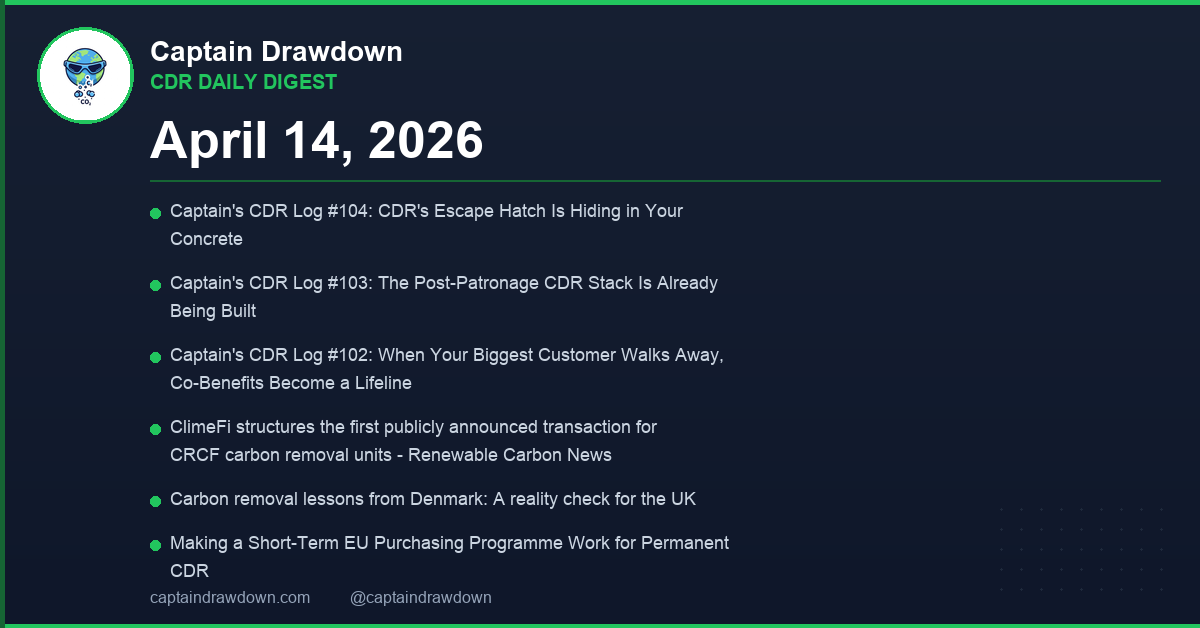
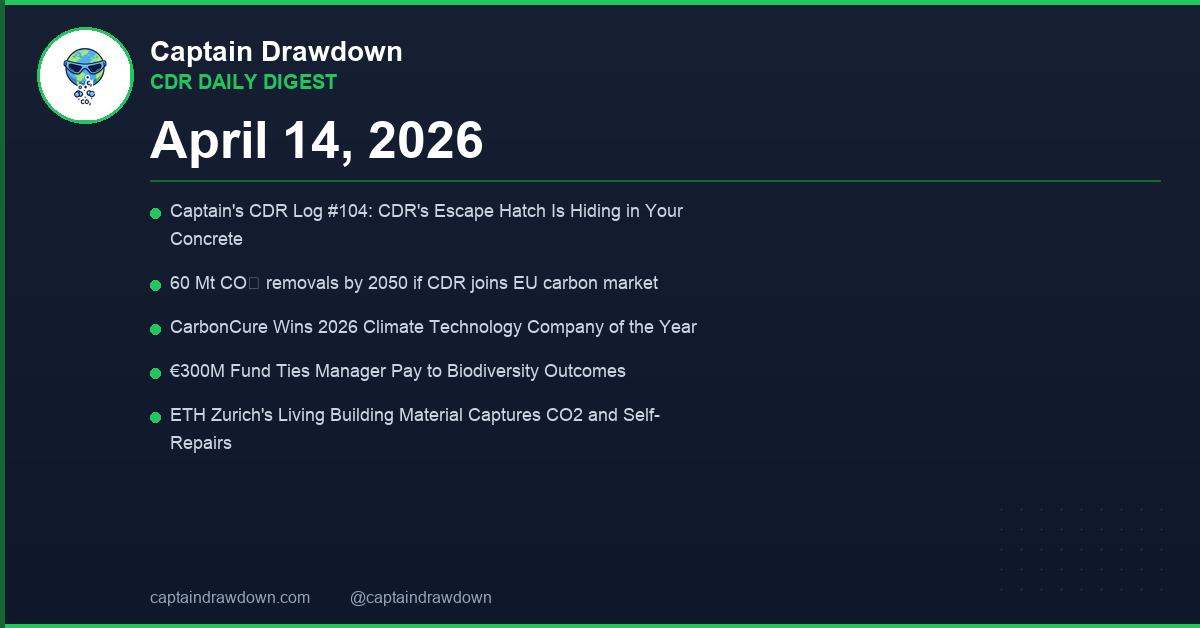
Daily digests Apr 14-16: rebuild with date-filtered story list (bug fix)

Changed region(s): [[0.1233, 0.4236, 0.6167, 0.7564], [0.1233, 0.8471, 0.6167, 0.9379], [0.1233, 0.7866, 0.5858, 0.8169]]

diff --git a/content/posts/2026-04-14-daily-digest-2026-04-14.md b/content/posts/2026-04-14-daily-digest-2026-04-14.md
@@ -1,6 +1,6 @@
 ---
 title: "CDR Daily Digest — 2026-04-14"
-date: 2026-04-14T20:31:47.990630+02:00
+date: 2026-04-14T20:30:00+02:00
 slug: "daily-digest-2026-04-14"
 tags: ["digest", "daily"]
 cover:
@@ -9,58 +9,42 @@ cover:
   hidden: false
 ---
 
-Concrete is quietly becoming CDR's most promising delivery vehicle. That is the pattern running through today's news, and it matters more than any single headline.
+Carbon dioxide removal is finding its way into the built environment faster than most people expected. Today's stories converge on a single theme: concrete and construction materials are becoming a serious vector for permanent carbon storage, and the policy and capital signals are finally catching up.
 
-## The day concrete got serious about carbon removal
+## Concrete Is Becoming a Carbon Sink
 
-Three separate stories landed today pointing in the same direction: carbon mineralization in concrete is moving from lab curiosity to industrial reality. ZEN Carbon announced its first live deployment at a concrete plant. CarbonCure won the 2026 Climate Technology Company of the Year award. And ETH Zurich published work on a living building material that captures CO2 and can self-repair.
+Three of today's five stories point to the same place: the stuff we build with.
 
-Why does this cluster matter? Because concrete is the world's most consumed manufactured material, roughly 30 billion tonnes produced each year. If even a fraction of that production mineralizes CO2 instead of just emitting it, the removal volumes could be enormous. And unlike some CDR pathways that struggle to find buyers, concrete already has buyers. Every building, bridge, and sidewalk is a potential sink.
+CarbonCure just won the 2026 Climate Technology Company of the Year award. The company injects captured CO₂ into fresh concrete, where it mineralizes permanently. That is not a lab demo. CarbonCure's technology is deployed across hundreds of concrete plants. The award signals that the broader climate-tech community now sees mineralization in building materials as a proven pathway, not a speculative one.
 
-ZEN Carbon's step is worth watching closely. Moving from pilot to a real industrial host site is where most hardware startups stall. The company framed it as a sector milestone, not just a company one, and they are right. Each successful deployment at an actual plant lowers the perceived risk for the next one.
+Meanwhile, ETH Zurich published work on a living building material that captures CO₂ and can self-repair. The material uses biological processes embedded in its structure to pull carbon from the air and store it in mineral form. It is early-stage research, but it points toward a future where buildings are not just low-carbon but actively carbon-negative over their lifetimes.
 
-## Co-benefits as survival strategy
+These developments sit alongside what we explored in Captain's CDR Log #104: the enormous, underappreciated opportunity to use concrete as a permanent carbon store. Concrete is the most consumed material on Earth after water. Even modest CO₂ uptake per cubic meter, multiplied across global production volumes, adds up to meaningful removal at scale.
 
-Our own Captain's Log series this week (#102, #103, #104) traced a theme that connects directly to the concrete story: when traditional CDR revenue is uncertain, co-benefits become the lifeline.
+## Policy Could Unlock 60 Million Tonnes a Year
 
-Log #102 examined what happens when a major buyer walks away. The answer, increasingly, is that CDR companies pivot toward products and services that have value independent of carbon credits. Mineralized concrete is the textbook case. It makes better concrete. The carbon removal is a bonus, not the sole revenue stream. Log #104 made this explicit: CDR's escape hatch is hiding in your concrete.
+Scale requires more than technology. It requires markets. A new analysis shows that if CDR is formally integrated into the EU carbon market, removals could reach 60 million tonnes of CO₂ per year by 2050. That is a significant number. For context, the entire global volume of CDR purchased through voluntary markets today is a tiny fraction of that figure.
 
-Log #103 went further, arguing that a "post-patronage CDR stack" is already being assembled. The era of relying on a handful of large voluntary buyers to fund the entire sector may be ending. What replaces it is a mix of compliance markets, product co-benefits, and structured finance.
+The mechanism matters here. Inclusion in the EU Emissions Trading System would give durable CDR a compliance-grade price signal, not just a voluntary one. That changes the economics for every company making investment decisions about mineralization, direct air capture, and other permanent removal methods. It would also create demand certainty that voluntary markets have struggled to provide.
 
-## Policy and market signals from Europe
+This is not a foregone conclusion. The policy design details, including how removals are verified, what counts as permanent, and how credits interact with existing allowances, will determine whether the 60 Mt figure stays aspirational or becomes a planning target.
 
-Several European stories reinforced the shift from voluntary goodwill to structured demand. ClimeFi announced the first publicly reported transaction for carbon removal units under the EU's Carbon Removal Certification Framework (CRCF). That is a small but concrete step toward compliance-grade CDR in Europe.
+## Capital Is Moving, With Strings Attached
 
-A new analysis projected that if CDR is integrated into the EU carbon market, removals could reach 60 million tonnes of CO2 per year by 2050. A separate paper outlined how a short-term EU purchasing programme could be designed to work specifically for permanent CDR. And a comparison of Denmark and the UK offered a reality check: Denmark is moving faster on deployment, and the UK risks falling behind without clearer policy signals.
+A new €300 million fund is tying manager compensation directly to biodiversity outcomes. While biodiversity is not the same as carbon removal, this fund structure matters for CDR because it demonstrates a growing willingness among investors to link financial returns to measurable environmental performance.
 
-Germany's numbers were the starkest. A new study found the country needs up to 51 million tonnes of CO2 removed per year by 2045. Delays in building that capacity now will make the target harder and more expensive to hit later.
+For CDR-relevant nature-based approaches like soil carbon and afforestation, this kind of accountability mechanism could help address one of the sector's persistent credibility problems: the gap between what projects promise and what they deliver. If fund managers only get paid when ecological outcomes are verified, the incentive to overstate results drops sharply.
 
-## Permits, pilots, and new money
+The model could be adapted for CDR-specific funds. Imagine a vehicle where manager pay depends on tonnes of CO₂ durably removed, verified through rigorous measurement, reporting, and verification (MRV). That would be a meaningful step beyond the current norm, where carbon credit quality varies widely and accountability is uneven.
 
-Kansas received its first Class VI permit for CO2 storage, a necessary piece of infrastructure for any injection-based CDR pathway in the central United States. Rock Flour Company landed 1.6 million euros to run Denmark's first certified enhanced rock weathering (ERW) field pilots, where crushed rock is spread on farmland to accelerate natural carbon mineralization. Altitude scaled up its biochar credit purchases to help unclog supply bottlenecks in that pathway. And a new 300 million euro fund is tying manager compensation to biodiversity outcomes, a signal that co-benefit verification is becoming investable.
+## What's Next
 
-Verra launched a buyer tool that lets companies check whether specific carbon credits are eligible under emerging compliance rules. That is a small product update with big implications: it assumes buyers are already planning for a compliance world, not just a voluntary one.
-
-## What's next
-
-Two things to watch. First, whether the CRCF transaction that ClimeFi structured becomes a template. If more buyers start purchasing EU-certified removal units, the voluntary-to-compliance bridge gets real very fast. Second, keep an eye on concrete mineralization deployments. ZEN Carbon is one data point. If two or three more companies announce industrial host sites in the next quarter, the pathway could move from "promising" to "bankable" faster than most forecasts assume.
+Two things to watch. First, the EU carbon market integration debate. If CDR gets a formal role in the ETS, expect a rush of capital into mineralization and other permanent removal technologies. The 60 Mt target would become a benchmark that shapes investment decisions across the continent. Second, keep an eye on construction-sector adoption of CO₂ mineralization. CarbonCure's award and ETH Zurich's research suggest the building materials industry is approaching a tipping point where carbon storage becomes a standard feature, not a premium add-on. The companies and jurisdictions that move first will set the terms.
 
 ## Today's Stories
 
 - [Captain's CDR Log #104: CDR's Escape Hatch Is Hiding in Your Concrete](/posts/captains-cdr-log-104/)
-- [Captain's CDR Log #103: The Post-Patronage CDR Stack Is Already Being Built](/posts/captains-cdr-log-103/)
-- [Captain's CDR Log #102: When Your Biggest Customer Walks Away, Co-Benefits Become a Lifeline](/posts/captains-cdr-log-102/)
-- [ClimeFi structures the first publicly announced transaction for CRCF carbon removal units - Renewable Carbon News](/posts/climefi-structures-the-first-publicly-announced-transaction/)
-- [Carbon removal lessons from Denmark: A reality check for the UK](/posts/carbon-removal-lessons-from-denmark-a-reality-check-for-the/)
-- [Making a Short-Term EU Purchasing Programme Work for Permanent CDR](/posts/making-a-short-term-eu-purchasing-programme-work-for-permane/)
-- [ZEN Carbon has partnered with a concrete plant to deploy its technology, marking our transition into live industrial deployment.
-
-This is a defining step,not just for us, but for how carbon removal… | Zen Carbon](/posts/zen-carbon-has-partnered-with-a-concrete-plant-to-deploy-its/)
-- [Verra Launches Buyer Tool to Check Carbon Credit Compliance Eligibility](/posts/verra-updates-article-6-and-corsia-label-guidance-releases-n/)
-- [Rock Flour Company Lands €1.6M for Denmark's First Certified ERW Field Pilots](/posts/icefield-icefield-erw-rock-flour-company/)
-- [Kansas Gets Its First Class VI CO2 Storage Permit](/posts/epa-grants-first-class-vi-ccs-permit-in-kansas/)
-- [Germany Needs Up to 51 Mt CO₂/yr CDR by 2045—Delays Risk Missing Targets](/posts/carbonremoval-cdr-netzero-energytransition-negativeemissions/)
-- [Altitude scales biochar credit buys to unclog CDR supply bottlenecks](/posts/interview-cdr-trader-altitude-eyes-more-biochar-credit-purch/)
 - [60 Mt CO₂ removals by 2050 if CDR joins EU carbon market](/posts/eu-carbon-market-could-drive-next-phase-of-climate-action-by/)
 - [CarbonCure Wins 2026 Climate Technology Company of the Year](/posts/carboncure-named-climate-technology-company-of-the-year/)
 - [€300M Fund Ties Manager Pay to Biodiversity Outcomes](/posts/triodos-im-and-fondaction-launch-300-million-natural-capital/)
+- [ETH Zurich's Living Building Material Captures CO2 and Self-Repairs](/posts/eth-zurich-develops-living-material-that-captures-carbon/)

diff --git a/content/posts/2026-04-15-daily-digest-2026-04-15.md b/content/posts/2026-04-15-daily-digest-2026-04-15.md
@@ -1,6 +1,6 @@
 ---
 title: "CDR Daily Digest — 2026-04-15"
-date: 2026-04-15T20:35:59.048302+02:00
+date: 2026-04-15T20:30:00+02:00
 slug: "daily-digest-2026-04-15"
 tags: ["digest", "daily"]
 cover:
@@ -9,56 +9,35 @@ cover:
   hidden: false
 ---
 
-The CDR industry is splitting into two tracks: one where permits and technology keep advancing, the other where the money hasn't caught up. That tension defined today's news cycle. Kansas just got its first Class VI CO2 storage permit. ZEN Carbon moved into live industrial deployment at a concrete plant. ETH Zurich published work on a living building material that captures CO2 and self-repairs. The engineering side of CDR is not waiting around.
+CDR has a growing disconnect between paper and practice. Permits for carbon removal projects keep stacking up, but the money to build them is drying up. That gap, between regulatory green lights and actual capital deployment, is the most important pattern in today's stories.
 
-But the financing side tells a different story. As Captain's Log #105 put it bluntly: the permits keep coming, but the checks have stopped. Voluntary buyers are pulling back. The gap between technical readiness and commercial demand is widening, not narrowing.
+## The permits-to-payments gap
 
-The question for the rest of 2026 is whether new market structures can close that gap before momentum stalls.
+Captain's CDR Log #105 puts a sharp point on it: the pipeline of permitted CDR projects is expanding, yet financing has stalled. Permits are necessary but not sufficient. A permit lets you build. A check lets you actually do it. Right now, the industry has more of the former and not enough of the latter.
 
-## Concrete is becoming CDR's quiet workhorse
+This is not a new problem in climate tech. Early-stage industries often hit a valley where technical validation outpaces commercial commitment. But CDR faces a specific version of this challenge. Buyers remain cautious. Long-term offtake agreements, the kind that let project developers secure debt financing, are still rare. Government procurement programs exist in some jurisdictions but haven't yet reached the scale needed to bridge the gap.
 
-Three separate stories today pointed at the same material: concrete. CarbonCure won the 2026 Climate Technology Company of the Year award. ZEN Carbon announced its first live deployment at a concrete plant. And Captain's Log #104 made the case that mineralization in concrete is CDR's "escape hatch," a pathway that embeds removal into something people already buy.
+The risk is clear. If permitted projects sit idle for too long, developers burn through cash, talent moves on, and the learning-by-doing that drives cost reductions never happens. Permits have expiration dates, both literal and practical. The window between "approved" and "funded" can't stay open forever.
 
-Cella and TotalEnergies also announced a partnership targeting CO2 mineralization at industrial sites. When a fossil major shows up in a CDR story, it's worth naming the constraint: CDR is for residual emissions that can't be eliminated, not a reason to delay phasing out fossil fuels. That said, the mineralization pathway is interesting precisely because it locks CO2 into solid form permanently, and it piggybacks on existing industrial supply chains.
+## Mineralization moves to industrial sites
 
-## Policy signals from Europe are getting louder
+Against that backdrop, one deal stands out for doing something concrete. Cella and TotalEnergies are targeting CO2 mineralization at industrial sites. Mineralization means reacting CO2 with certain rock types to form stable carbonate minerals, locking carbon away permanently in solid form.
 
-Germany now estimates it needs up to 51 million tonnes of CO2 removal per year by 2045. Delays risk missing that target entirely. A separate analysis found that if CDR joins the EU carbon market, the bloc could reach 60 million tonnes of removals by 2050. Denmark is running its first certified enhanced rock weathering (ERW) field pilots, backed by €1.6 million for Rock Flour Company. And a new paper lays out what a short-term EU purchasing programme for permanent CDR would need to look like to actually work.
+What matters here is the location strategy. By co-locating with industrial facilities, Cella can tap into concentrated CO2 streams. That's cheaper than pulling dilute CO2 from the atmosphere. It also means shorter transport distances and potential integration with existing infrastructure.
 
-Meanwhile, Carbon180 published the first social and environmental guardrails specifically designed for CDR projects. This matters because as the industry scales, the communities hosting these projects need clear protections, not just promises.
+TotalEnergies is an oil and gas major, so the moral-hazard question is unavoidable. CDR is for residual emissions that can't be eliminated through direct decarbonization. It is not a substitute for phasing out fossil fuels. Any CDR partnership with a fossil fuel company should be evaluated on whether it serves that residual-only purpose or whether it functions as a delay tactic. The technical merits of Cella's mineralization approach stand on their own. The strategic context deserves scrutiny.
 
-Lessons from Denmark's experience offer a reality check for the UK, which is still figuring out its own CDR procurement strategy. The takeaway: early movers learn things that latecomers pay for.
+## Two stories, one tension
 
-## New financial plumbing is being installed
+These two stories mirror each other. Log #105 describes an industry where progress on paper outpaces progress on the ground. The Cella-TotalEnergies deal is one attempt to close that gap, pairing a technology developer with a large industrial partner that can provide both CO2 supply and capital.
 
-ClimeFi structured the first publicly announced transaction for CRCF (Carbon Removal Certification Framework) carbon removal units. That's the EU's new standard. First transactions under new standards are small, but they set precedents that shape everything after.
-
-JPMorganChase bought more than 85,000 tonnes of CDR credits using a dynamic baseline approach. Altitude is scaling biochar credit purchases to unclog supply bottlenecks. A €300 million fund is tying manager compensation to biodiversity outcomes, which signals that co-benefits are becoming bankable, not just nice-to-have.
-
-Verra launched a buyer tool to check whether carbon credits meet compliance eligibility. And a new study found that REDD+ credits overstated avoided deforestation by a factor of 10.7. That finding doesn't directly involve CDR, but it shapes the credibility environment that all carbon credits operate in. Buyers burned by overcredited avoidance projects become harder to convert into removal buyers.
-
-Captain's Log #102 framed the co-benefits angle sharply: when your biggest customer walks away, co-benefits become a lifeline. Log #103 went further, arguing that a post-patronage CDR stack, one not dependent on a handful of big tech buyers, is already being built.
+But one deal doesn't fix a systemic financing problem. The CDR sector needs a thicker layer of demand signals: more corporate offtake agreements, larger government procurement commitments, and financial instruments that let projects reach final investment decisions. Without those, the permit pipeline becomes a monument to good intentions.
 
 ## What's next
 
-Watch the EU's next moves on integrating CDR into the carbon market. The 60 Mt by 2050 number only works if permanent removal gets a compliance-grade price signal, and that decision hasn't been made yet. Closer to home, watch whether JPMorganChase's 85,000-tonne purchase triggers other financial institutions to follow. Banks buying CDR credits at scale would change the demand picture faster than any policy.
+Two things to watch. First, whether the Cella-TotalEnergies partnership leads to a final investment decision with a disclosed timeline and tonnage target. Announcements are easy. Construction schedules are hard. Second, whether any major CDR procurement program, public or private, announces new commitments in the next quarter. The permits-to-payments gap won't close on its own. Someone has to write the checks.
 
 ## Today's Stories
 
 - [Captain's CDR Log #105: The Permits Keep Coming, but the Checks Have Stopped](/posts/captains-cdr-log-105/)
-- [Captain's CDR Log #104: CDR's Escape Hatch Is Hiding in Your Concrete](/posts/captains-cdr-log-104/)
-- [Captain's CDR Log #103: The Post-Patronage CDR Stack Is Already Being Built](/posts/captains-cdr-log-103/)
-- [Captain's CDR Log #102: When Your Biggest Customer Walks Away, Co-Benefits Become a Lifeline](/posts/captains-cdr-log-102/)
-- [ClimeFi structures the first publicly announced transaction for CRCF carbon removal units - Renewable Carbon News](/posts/climefi-structures-the-first-publicly-announced-transaction/)
-- [Carbon removal lessons from Denmark: A reality check for the UK](/posts/carbon-removal-lessons-from-denmark-a-reality-check-for-the/)
-- [Making a Short-Term EU Purchasing Programme Work for Permanent CDR](/posts/making-a-short-term-eu-purchasing-programme-work-for-permane/)
-- [ZEN Carbon has partnered with a concrete plant to deploy its technology, marking our transition into live industrial deployment.
-
-This is a defining step,not just for us, but for how carbon removal… | Zen Carbon](/posts/zen-carbon-has-partnered-with-a-concrete-plant-to-deploy-its/)
-- [Verra Launches Buyer Tool to Check Carbon Credit Compliance Eligibility](/posts/verra-updates-article-6-and-corsia-label-guidance-releases-n/)
-- [Rock Flour Company Lands €1.6M for Denmark's First Certified ERW Field Pilots](/posts/icefield-icefield-erw-rock-flour-company/)
-- [Kansas Gets Its First Class VI CO2 Storage Permit](/posts/epa-grants-first-class-vi-ccs-permit-in-kansas/)
-- [Germany Needs Up to 51 Mt CO₂/yr CDR by 2045—Delays Risk Missing Targets](/posts/carbonremoval-cdr-netzero-energytransition-negativeemissions/)
-- [Altitude scales biochar credit buys to unclog CDR supply bottlenecks](/posts/interview-cdr-trader-altitude-eyes-more-biochar-credit-purch/)
-- [60 Mt CO₂ removals by 2050 if CDR joins EU carbon market](/posts/eu-carbon-market-could-drive-next-phase-of-climate-action-by/)
-- [CarbonCure Wins 2026 Climate Technology Company of the Year](/posts/carboncure-named-climate-technology-company-of-the-year/)
+- [Cella and TotalEnergies Target CO2 Mineralization at Industrial Sites](/posts/carbontovalue-co2technohub-carbonstorage-climatetech-cella/)

diff --git a/content/posts/2026-04-16-daily-digest-2026-04-16.md b/content/posts/2026-04-16-daily-digest-2026-04-16.md
@@ -1,0 +1,41 @@
+---
+title: "CDR Daily Digest — 2026-04-16"
+date: 2026-04-16T20:30:00+02:00
+slug: "daily-digest-2026-04-16"
+tags: ["digest", "daily"]
+cover:
+  image: "/images/posts/digest-2026-04-16.png"
+  alt: "CDR Daily Digest — 2026-04-16"
+  hidden: false
+---
+
+The U.S. Department of Energy just restored roughly 2,000 awards that had been frozen or cancelled under the new administration. But don't mistake that for a full reversal. About 94% of the projects that were previously cut remain dead. Meanwhile, new research finds that REDD+ forest-protection credits overstated their climate impact by more than tenfold. Both stories share a common thread: the gap between what gets announced and what actually delivers measurable carbon outcomes is enormous.
+
+## DOE Restores Awards, But Most Cancelled Projects Stay Gone
+
+DOE confirmed it is keeping approximately 2,000 awards that originated during the Biden era. On the surface, that sounds like good news for CDR and clean energy projects that depend on federal funding. Look closer and the picture is far less reassuring. Roughly 94% of the projects that were cancelled in earlier rounds of cuts are not coming back.
+
+For CDR specifically, this matters because many early-stage removal projects, including DAC hubs and other demonstration-scale efforts, were counting on federal dollars to bridge the gap between lab results and commercial operation. The awards that survived may be enough to keep some work moving. But the overall funding landscape for carbon removal in the U.S. is significantly smaller than it was a year ago.
+
+The practical question now is which projects made the cut and which didn't. The DOE has not released a detailed breakdown. Until that list is public, CDR developers and their partners are operating with real uncertainty about whether their specific awards are among the survivors.
+
+## REDD+ Credits Miss the Mark by 10.7x
+
+A new study found that REDD+ credits, which are issued for protecting forests that would otherwise be cut down, overstated avoided deforestation by a factor of 10.7. In plain terms: for every ton of CO2 these credits claimed to prevent, only about a tenth of a ton was actually kept out of the atmosphere.
+
+This is not a CDR story in the strict sense. REDD+ is an avoided-emissions mechanism, not a removal technology. But it matters deeply to the CDR world for two reasons.
+
+First, corporate buyers who got burned by low-quality offset credits are increasingly turning to engineered removal as a more verifiable alternative. Every study that exposes inflated offset claims strengthens the case for CDR approaches where measurement, reporting, and verification (MRV) can be grounded in physical and chemical evidence rather than counterfactual baselines about what "would have happened" to a forest.
+
+Second, this kind of finding reinforces why rigorous MRV is non-negotiable for any climate credit, removal or otherwise. CDR methods are not automatically immune to overcounting. Enhanced rock weathering, soil carbon, and even some biochar projects face their own measurement challenges. The REDD+ experience is a warning: if you build a market on shaky baselines, the science will eventually catch up.
+
+The 10.7x overstatement figure comes from comparing credited reductions against observed deforestation rates in and around project areas. The methodology is straightforward, which makes the result hard to dismiss.
+
+## What's Next
+
+Two things to watch. First, whether DOE publishes a project-level list of surviving versus cancelled awards. CDR developers, investors, and state agencies all need that clarity. Second, whether the REDD+ findings accelerate the shift in voluntary carbon markets toward removal credits with stronger MRV. Early signs suggest corporate buyers are already moving in that direction, but the pace matters. Every quarter that low-quality credits circulate is a quarter where real atmospheric outcomes fall short of what the ledger claims.
+
+## Today's Stories
+
+- [DOE keeps ~2,000 Biden-era awards but 94% of cancelled projects stay dead](/posts/scoop-doe-sends-a-list-of-retained-projects-to-congress/)
+- [REDD+ credits overstated avoided deforestation by 10.7×](/posts/learning-lessons-from-over-crediting-to-ensure-additionality/)
